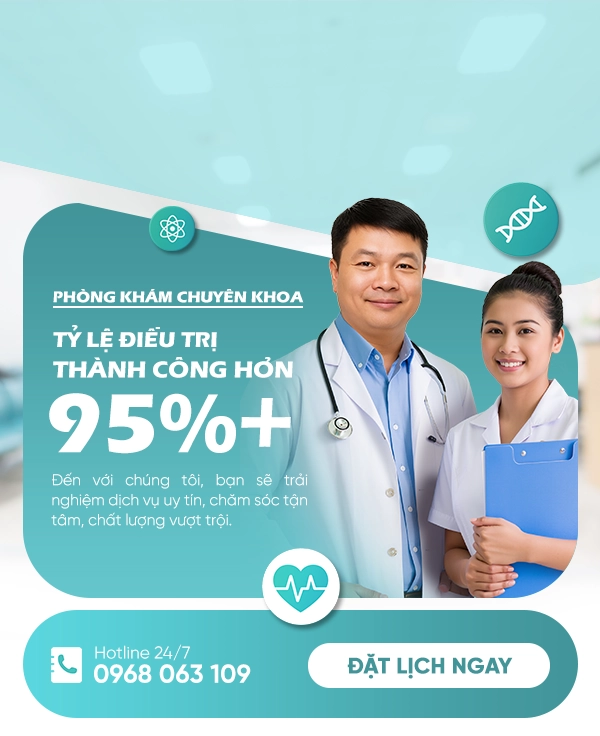
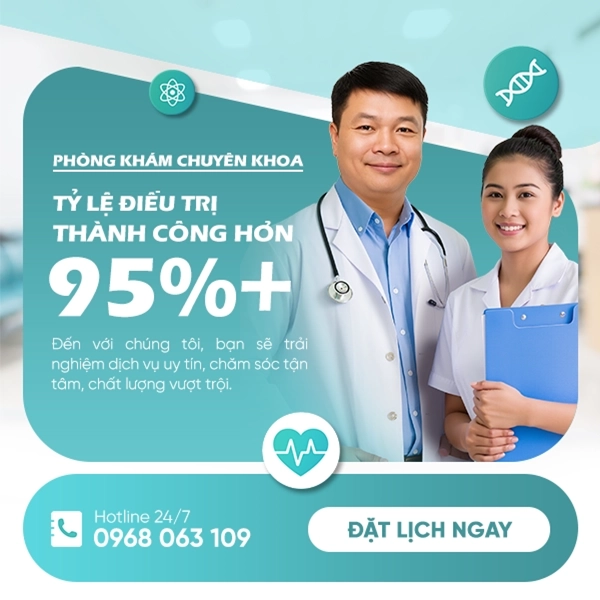
update

diff --git a/css/danh_muc.min.css b/css/danh_muc.min.css
@@ -714,11 +714,7 @@
 }
 
 .header_mobile_container {
-    position: fixed;
-    top: 0;
-    left: 0;
     width: 100%;
-    z-index: 9999;
 }
 
 .header_mobile_container-body {
@@ -740,24 +736,32 @@
 /* //// */
 
 .header__home_baner_absolute {
-    position: fixed;
-    top: 70px;
-    left: 0;
-    z-index: 999;
-    display: flex;
-    align-items: center;
-    justify-content: center;
     width: 100%;
     gap: 10px;
+    position: fixed;
+    top: 0;
+    right: 0;
+    z-index: 9999;
+    opacity: 0;
+    transform: translateY(50px);
+    transition: all 0.5s ease;
+    pointer-events: none;
+    height: 60px;
+}
+
+.header__home_baner_absolute.show {
+    opacity: 1;
+    transform: translateY(0);
+    pointer-events: auto;
 }
 
 .header__home_baner_absolute_card {
-    width: 20%;
+    width: 17%;
 }
 
 .header__home_baner_absolute_card_body {
     background-color: white;
-    padding: 10px;
+    padding: 5px;
     border-radius: 10px;
     /* display: flex;
     align-items: center;
@@ -770,9 +774,8 @@
 
 .header__home_baner_absolute_card_text {
     text-align: center;
-    font-size: 11px;
+    font-size: 10px;
     font-weight: 600;
-    margin-top: 5px;
     color: black;
 }
 

diff --git a/css/home.min.css b/css/home.min.css
@@ -32,24 +32,31 @@
 /* //// */
 
 .header__home_baner_absolute {
-    position: fixed;
-    top: 70px;
-    left: 0;
-    z-index: 999;
-    display: flex;
-    align-items: center;
-    justify-content: center;
     width: 100%;
     gap: 10px;
+    position: fixed;
+    top: 0;
+    right: 0;
+    z-index: 9999;
+    opacity: 0;
+    transform: translateY(50px);
+    transition: all 0.5s ease;
+    pointer-events: none;
+    height: 60px;
+}
+.header__home_baner_absolute.show {
+    opacity: 1;
+    transform: translateY(0);
+    pointer-events: auto;
 }
 
 .header__home_baner_absolute_card {
-    width: 20%;
+    width: 17%;
 }
 
 .header__home_baner_absolute_card_body {
     background-color: white;
-    padding: 10px;
+    padding: 5px;
     border-radius: 10px;
     /* display: flex;
     align-items: center;
@@ -62,9 +69,8 @@
 
 .header__home_baner_absolute_card_text {
     text-align: center;
-    font-size: 11px;
+    font-size: 10px;
     font-weight: 600;
-    margin-top: 5px;
     color: black;
 }
 

diff --git a/layout/header_layout.php b/layout/header_layout.php
@@ -65,49 +65,55 @@
             <?php include "layout/sider_bar.php" ?>
         </div>
     </div>
-    <div style="margin-top: 61px; position: relative; " class="header__home_baner">
+    <div class="header__home_baner">
         <div class="header__home_baner_absolute">
-            <a href="<?php echo $local ?>/gioi-thieu-bac-si.php" class="header__home_baner_absolute_card">
-                <div class="header__home_baner_absolute_card_body">
-                    <img loading="lazy" width="60%" height="auto" src="<?php echo $local ?>/images/icons/icon_7.webp"
-                        alt="...">
-                    <div class="header__home_baner_absolute_card_text">
-                        Bác sĩ
+            <div style=" display: flex; align-items: center; justify-content: space-around; background-color: #459498; padding: 5px 10px; box-sizing: border-box; height: 60px;">
+                <a href="<?php echo $local ?>/gioi-thieu-bac-si.php" class="header__home_baner_absolute_card">
+                    <div class="header__home_baner_absolute_card_body">
+                        <img loading="lazy" width="50%" height="auto" src="<?php echo $local ?>/images/icons/icon_7.webp"
+                            alt="...">
+                        <div class="header__home_baner_absolute_card_text">
+                            Bác sĩ
+                        </div>
                     </div>
-                </div>
 
-            </a>
-            <a href="<?php echo $local ?>/lich-kham.php" class="header__home_baner_absolute_card">
-                <div class="header__home_baner_absolute_card_body">
-                    <img loading="lazy" width="60%" height="auto" src="<?php echo $local ?>/images/icons/icon_8.webp"
-                        alt="...">
-                    <div class="header__home_baner_absolute_card_text">
-                        Lịch khám
+                </a>
+                <a href="<?php echo $local ?>/lich-kham.php" class="header__home_baner_absolute_card">
+                    <div class="header__home_baner_absolute_card_body">
+                        <img loading="lazy" width="50%" height="auto" src="<?php echo $local ?>/images/icons/icon_8.webp"
+                            alt="...">
+                        <div class="header__home_baner_absolute_card_text">
+                            Lịch khám
+                        </div>
                     </div>
-                </div>
 
-            </a>
-            <a href="https://zalo.me/0968063109" target="_blank" class="header__home_baner_absolute_card">
-                <div class="header__home_baner_absolute_card_body">
-                    <img loading="lazy" width="60%" height="auto" src="<?php echo $local ?>/images/icons/icon_9.webp"
-                        alt="...">
-                    <div class="header__home_baner_absolute_card_text">
-                        tư vấn
+                </a>
+                <a href="https://zalo.me/0968063109" target="_blank" class="header__home_baner_absolute_card">
+                    <div class="header__home_baner_absolute_card_body">
+                        <img loading="lazy" width="50%" height="auto" src="<?php echo $local ?>/images/icons/icon_9.webp"
+                            alt="...">
+                        <div class="header__home_baner_absolute_card_text">
+                            tư vấn
+                        </div>
                     </div>
-                </div>
 
-            </a>
-            <a href="https://npa.zoosnet.net/LR/Chatpre.aspx?id=NPA46777247&lng=en"
-                class="header__home_baner_absolute_card">
-                <div class="header__home_baner_absolute_card_body">
-                    <img loading="lazy" width="60%" height="auto" src="<?php echo $local ?>/images/icons/icon_10.webp"
-                        alt="...">
-                    <div class="header__home_baner_absolute_card_text">
-                        Đặt hẹn
+                </a>
+                <a href="https://npa.zoosnet.net/LR/Chatpre.aspx?id=NPA46777247&lng=en"
+                    class="header__home_baner_absolute_card">
+                    <div class="header__home_baner_absolute_card_body">
+                        <img loading="lazy" width="50%" height="auto" src="<?php echo $local ?>/images/icons/icon_10.webp"
+                            alt="...">
+                        <div class="header__home_baner_absolute_card_text">
+                            Đặt hẹn
+                        </div>
                     </div>
-                </div>
 
-            </a>
+                </a>
+                <?php include "layout/sider_bar.php" ?>
+            </div>
+            <marquee style="scroll-behavior: smooth; background-color: white; padding: 2px; " scrollamount="3">
+                <p style="color: #333">Chú ý: Nếu cần hỗ trợ <strong style="color:red">chẩn đoán tình trạng sức khỏe và tư vấn chi phí online </strong>, khách hàng có thể <strong style="color:red"> chat trực tiếp hoặc để lại số điện thoại </strong> để được tư vấn miễn phí. Hotline: <strong style="color:red">035.685.1116</strong></p>
+            </marquee>
         </div>
         <div style="width: 100%; display: flex; align-items: center; justify-content: center;" class="swiper-slide">
             <div
@@ -159,10 +165,26 @@
 
 <script>
     const isGioiThieu = "<?php echo basename($_SERVER['PHP_SELF']); ?>" === "gioi-thieu-bac-si.php";
-
+    const isLichKham = "<?php echo basename($_SERVER['PHP_SELF']); ?>" === "lich-kham.php";
+    if (isLichKham) {
+        document.querySelectorAll('.header__home_baner').forEach(a => {
+            a.style.marginTop = "61px";
+        });
+    }
     if (isGioiThieu) {
         document.querySelectorAll('.header__home_baner').forEach(a => {
             a.style.display = "none";
         });
     }
+    const banner = document.querySelector(".header__home_baner_absolute");
+
+    window.addEventListener("scroll", () => {
+
+        if (window.scrollY > 60) {
+            banner.classList.add("show");
+        } else {
+            banner.classList.remove("show");
+        }
+
+    });
 </script>

diff --git a/layout/sider_bar.php b/layout/sider_bar.php
@@ -3,7 +3,7 @@
  <img loading="lazy" onclick="hidenSidebar()" class="header__mobile-top-left-icon-close"
      src="<?php echo $local ?>/images/icons/icon_close1.webp" width="35px" height="auto" alt="..."></img>
 
- <ul class="sidebar_mobile">
+ <ul class="sidebar_mobile sidebar_instance">
      <li>
          <a href="<?php echo $local ?>/home.html">Giới thiệu</a>
      </li>
@@ -15,10 +15,10 @@
          <a href="<?php echo $local ?>/lich-kham.php">lịch khám bệnh viện</a>
      </li>
      <li>
-         <a href="tel:02877779888">tư vấn trực tuyến</a>
+         <a href="https://npa.zoosnet.net/LR/Chatpre.aspx?id=NPA46777247&lng=en">tư vấn trực tuyến</a>
      </li>
      <li>
-         <a href="https://npa.zoosnet.net/LR/Chatpre.aspx?id=NPA46777247&lng=en">đặt lịch</a>
+         <a href="tel:0968063109">đặt lịch</a>
      </li>
 
  </ul>
@@ -56,7 +56,7 @@
          height: 90vh;
          width: 280px;
          z-index: 1000;
-         background-color: #449ea7ff;
+         background-color: #459498;
          backdrop-filter: blur(10px);
          box-shadow: -10px 0 10px rgb(0, 0, 0, 0.1);
          color: white;
@@ -171,24 +171,37 @@
 
  <script>
      function showSidebar() {
-         const sidebar = document.querySelector('.sidebar_mobile');
-         const icons_menu = document.querySelector('.header__mobile-top-left-icon');
-         const icons_sclose = document.querySelector('.header__mobile-top-left-icon-close');
-         sidebar.classList.add('active_mobile');
-         sidebar.classList.remove('inactive_mobile');
-         icons_menu.style.display = "none";
-         icons_sclose.style.display = "block"
+
+         const sidebars = document.querySelectorAll('.sidebar_instance');
+         const icons_menu = document.querySelectorAll('.header__mobile-top-left-icon');
+         const icons_close = document.querySelectorAll('.header__mobile-top-left-icon-close');
+
+         sidebars.forEach(sidebar => {
+             sidebar.classList.add('active_mobile');
+             sidebar.classList.remove('inactive_mobile');
+         });
+
+         icons_menu.forEach(i => i.style.display = "none");
+         icons_close.forEach(i => i.style.display = "block");
+
      }
 
      function hidenSidebar() {
-         const sidebar = document.querySelector('.sidebar_mobile');
-         const icons_menu = document.querySelector('.header__mobile-top-left-icon');
-         const icons_sclose = document.querySelector('.header__mobile-top-left-icon-close');
-         sidebar.classList.add('inactive_mobile');
-         setTimeout(() => {
-             sidebar.classList.remove('active_mobile');
-         }, 500);
-         icons_menu.style.display = "block";
-         icons_sclose.style.display = "none"
+
+         const sidebars = document.querySelectorAll('.sidebar_instance');
+         const icons_menu = document.querySelectorAll('.header__mobile-top-left-icon');
+         const icons_close = document.querySelectorAll('.header__mobile-top-left-icon-close');
+
+         sidebars.forEach(sidebar => {
+             sidebar.classList.add('inactive_mobile');
+
+             setTimeout(() => {
+                 sidebar.classList.remove('active_mobile');
+             }, 500);
+         });
+
+         icons_menu.forEach(i => i.style.display = "block");
+         icons_close.forEach(i => i.style.display = "none");
+
      }
  </script>

diff --git a/layout/notification_layout.php b/layout/notification_layout.php
@@ -59,14 +59,14 @@
 </style>
 
 <div id="notification" class="notification"></div>
-<div id="unlockSound" style="position:fixed;inset:0;z-index:999;opacity:0;"></div>
-<audio id="notiSound" src="/images/ting.mp3"></audio>
+<!-- <div id="unlockSound" style="position:fixed;inset:0;z-index:999;opacity:0;"></div>
+<audio id="notiSound" src="/images/ting.mp3"></audio> -->
 <script>
-    document.getElementById("unlockSound").addEventListener("click", () => {
-        const audio = document.getElementById("notiSound");
-        audio.play().catch(() => {});
-        document.getElementById("unlockSound").remove();
-    });
+    // document.getElementById("unlockSound").addEventListener("click", () => {
+    //     const audio = document.getElementById("notiSound");
+    //     audio.play().catch(() => {});
+    //     document.getElementById("unlockSound").remove();
+    // });
     const notification = document.getElementById('notification');
 
     // Danh sách thông điệp
@@ -120,13 +120,13 @@
         notification.classList.remove('slide-up');
         notification.classList.add('slide-down');
         // Play sound
-        const sound = document.getElementById('notiSound');
+        //const sound = document.getElementById('notiSound');
 
         // Gán lại src bằng PHP
-        sound.src = "<?php echo $local ?>/images/ting.mp3";
+        //sound.src = "<?php echo $local ?>/images/ting.mp3";
 
-        sound.currentTime = 0;
-        sound.play();
+        //sound.currentTime = 0;
+        //sound.play();
     }
 
     function hideNotification() {
